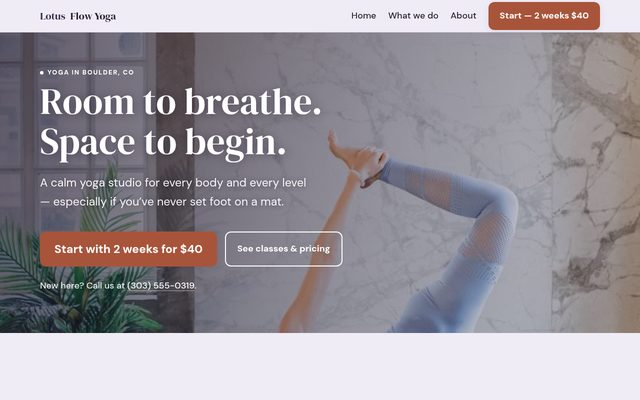
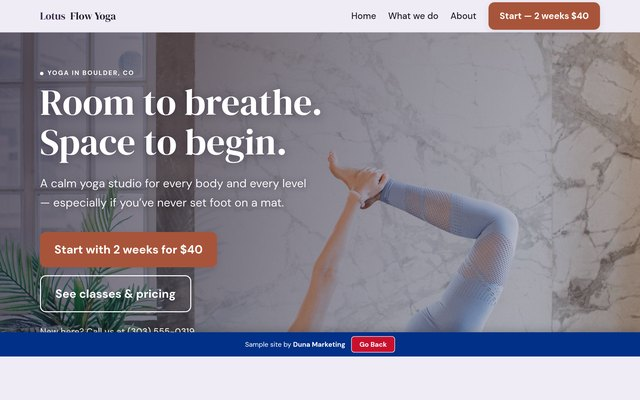
Six more samples on the homepage: taqueria, yoga, HVAC, grooming, detailing, med spa
Each got the mechanical craft pass: sample-site bar added on every page
(19 pages), page-specific meta descriptions, .page-hero styled, and six
undersized photos re-fetched from source at 1800px so nothing pixelates
on a 2x screen. Thumbnails shot at 2x and downsampled. Homepage goes
from 12 to 18 samples.

Claude-Session: https://claude.ai/code/session_01D7xGmYAXgvAihBMPCkH7ye

diff --git a/index.html b/index.html
@@ -176,6 +176,24 @@ fbq('track', 'PageView');
         <a href="/portfolio/summit-ridge-ski-board/" target="_blank" rel="noopener">
           <img src="/portfolio/thumbs/summit-ridge-ski-board.jpg" alt="Summit Ridge Ski and Board website" width="640" height="400" loading="lazy">
           <b>Summit Ridge Ski &amp; Board</b><span>Ski &amp; snowboard shop</span></a>
+        <a href="/portfolio/el-comal-taquer-a/" target="_blank" rel="noopener">
+          <img src="/portfolio/thumbs/el-comal-taquer-a.jpg" alt="El Comal Taqueria website" width="640" height="400" loading="lazy">
+          <b>El Comal Taquer&iacute;a</b><span>Taqueria</span></a>
+        <a href="/portfolio/lotus-flow-yoga/" target="_blank" rel="noopener">
+          <img src="/portfolio/thumbs/lotus-flow-yoga.jpg" alt="Lotus Flow Yoga website" width="640" height="400" loading="lazy">
+          <b>Lotus Flow Yoga</b><span>Yoga studio</span></a>
+        <a href="/portfolio/blue-ridge-heating-air/" target="_blank" rel="noopener">
+          <img src="/portfolio/thumbs/blue-ridge-heating-air.jpg" alt="Blue Ridge Heating and Air website" width="640" height="400" loading="lazy">
+          <b>Blue Ridge Heating &amp; Air</b><span>HVAC</span></a>
+        <a href="/portfolio/waggin-tails-grooming/" target="_blank" rel="noopener">
+          <img src="/portfolio/thumbs/waggin-tails-grooming.jpg" alt="Waggin Tails Grooming website" width="640" height="400" loading="lazy">
+          <b>Waggin&rsquo; Tails Grooming</b><span>Dog grooming</span></a>
+        <a href="/portfolio/mirror-finish-auto-detailing/" target="_blank" rel="noopener">
+          <img src="/portfolio/thumbs/mirror-finish-auto-detailing.jpg" alt="Mirror Finish Auto Detailing website" width="640" height="400" loading="lazy">
+          <b>Mirror Finish Detailing</b><span>Auto detailing</span></a>
+        <a href="/portfolio/lumen-aesthetics/" target="_blank" rel="noopener">
+          <img src="/portfolio/thumbs/lumen-aesthetics.jpg" alt="Lumen Aesthetics website" width="640" height="400" loading="lazy">
+          <b>Lumen Aesthetics</b><span>Med spa</span></a>
       </div>
     </section>
 

diff --git a/portfolio/waggin-tails-grooming/css/site.css b/portfolio/waggin-tails-grooming/css/site.css
@@ -125,3 +125,30 @@
 .cta-band p { margin-bottom: 0; }
 .cta-band .btn--primary { background: var(--on-brand); color: var(--brand); border: 1px solid var(--on-brand); }
 .cta-band .btn--ghost { color: var(--on-brand); border: 1px solid var(--on-brand); background: transparent; }
+
+
+/* ---------- Duna Marketing sample-site bar ---------- */
+:root { --duna-h: 48px; }
+.duna-bar {
+  position: fixed; left: 0; right: 0; bottom: 0; z-index: 70;
+  box-sizing: border-box; min-height: var(--duna-h);
+  display: flex; align-items: center; justify-content: center; gap: 0.75rem; flex-wrap: wrap;
+  padding: 0.5rem 1rem calc(0.5rem + env(safe-area-inset-bottom));
+  background: #003087; color: #FFFFFF;
+  font-family: var(--font-body); font-size: 0.85rem; line-height: 1.3; text-align: center;
+  box-shadow: 0 -4px 16px rgba(0, 0, 0, 0.18);
+}
+.duna-bar__btn {
+  background: #C8102E; color: #FFFFFF; border: 1px solid #FFFFFF;
+  border-radius: 6px; padding: 0.4rem 0.95rem; font-weight: 700; font-size: 0.85rem;
+  text-decoration: none; white-space: nowrap;
+}
+.duna-bar__btn:hover, .duna-bar__btn:focus-visible { background: #A50D25; }
+body { padding-bottom: calc(var(--duna-h) + env(safe-area-inset-bottom)); }
+@media (max-width: 720px) {
+  .cta-bar { bottom: calc(var(--duna-h) + env(safe-area-inset-bottom)); }
+  body.has-cta-bar { padding-bottom: calc(84px + var(--duna-h)); }
+}
+
+/* Subpage headline needs air under the sticky header. */
+.page-hero { padding-top: 25px; }

diff --git a/portfolio/blue-ridge-heating-air/css/site.css b/portfolio/blue-ridge-heating-air/css/site.css
@@ -125,3 +125,27 @@ h1, h2, h3 { font-weight: 700; letter-spacing: -0.02em; }
 .cta-band p { margin-bottom: 0; }
 .cta-band .btn--primary { background: var(--on-brand); color: var(--brand); border: 1px solid var(--on-brand); }
 .cta-band .btn--ghost { color: var(--on-brand); border: 1px solid var(--on-brand); background: transparent; }
+
+
+/* ---------- Duna Marketing sample-site bar ---------- */
+:root { --duna-h: 48px; }
+.duna-bar {
+  position: fixed; left: 0; right: 0; bottom: 0; z-index: 70;
+  box-sizing: border-box; min-height: var(--duna-h);
+  display: flex; align-items: center; justify-content: center; gap: 0.75rem; flex-wrap: wrap;
+  padding: 0.5rem 1rem calc(0.5rem + env(safe-area-inset-bottom));
+  background: #003087; color: #FFFFFF;
+  font-family: var(--font-body); font-size: 0.85rem; line-height: 1.3; text-align: center;
+  box-shadow: 0 -4px 16px rgba(0, 0, 0, 0.18);
+}
+.duna-bar__btn {
+  background: #C8102E; color: #FFFFFF; border: 1px solid #FFFFFF;
+  border-radius: 6px; padding: 0.4rem 0.95rem; font-weight: 700; font-size: 0.85rem;
+  text-decoration: none; white-space: nowrap;
+}
+.duna-bar__btn:hover, .duna-bar__btn:focus-visible { background: #A50D25; }
+body { padding-bottom: calc(var(--duna-h) + env(safe-area-inset-bottom)); }
+@media (max-width: 720px) {
+  .cta-bar { bottom: calc(var(--duna-h) + env(safe-area-inset-bottom)); }
+  body.has-cta-bar { padding-bottom: calc(84px + var(--duna-h)); }
+}

diff --git a/portfolio/el-comal-taquer-a/css/site.css b/portfolio/el-comal-taquer-a/css/site.css
@@ -182,3 +182,27 @@ h1, h2, h3 { font-weight: 800; letter-spacing: -0.02em; }
 .cta-band p { margin-bottom: 0; }
 .cta-band .btn--primary { background: var(--on-brand); color: var(--brand); border: 1px solid var(--on-brand); }
 .cta-band .btn--ghost { color: var(--on-brand); border: 1px solid var(--on-brand); background: transparent; }
+
+
+/* ---------- Duna Marketing sample-site bar ---------- */
+:root { --duna-h: 48px; }
+.duna-bar {
+  position: fixed; left: 0; right: 0; bottom: 0; z-index: 70;
+  box-sizing: border-box; min-height: var(--duna-h);
+  display: flex; align-items: center; justify-content: center; gap: 0.75rem; flex-wrap: wrap;
+  padding: 0.5rem 1rem calc(0.5rem + env(safe-area-inset-bottom));
+  background: #003087; color: #FFFFFF;
+  font-family: var(--font-body); font-size: 0.85rem; line-height: 1.3; text-align: center;
+  box-shadow: 0 -4px 16px rgba(0, 0, 0, 0.18);
+}
+.duna-bar__btn {
+  background: #C8102E; color: #FFFFFF; border: 1px solid #FFFFFF;
+  border-radius: 6px; padding: 0.4rem 0.95rem; font-weight: 700; font-size: 0.85rem;
+  text-decoration: none; white-space: nowrap;
+}
+.duna-bar__btn:hover, .duna-bar__btn:focus-visible { background: #A50D25; }
+body { padding-bottom: calc(var(--duna-h) + env(safe-area-inset-bottom)); }
+@media (max-width: 720px) {
+  .cta-bar { bottom: calc(var(--duna-h) + env(safe-area-inset-bottom)); }
+  body.has-cta-bar { padding-bottom: calc(84px + var(--duna-h)); }
+}

diff --git a/portfolio/lotus-flow-yoga/css/site.css b/portfolio/lotus-flow-yoga/css/site.css
@@ -113,3 +113,27 @@ h1, h2, h3 { font-weight: 400; letter-spacing: 0; }
 .cta-band p { margin-bottom: 0; }
 .cta-band .btn--primary { background: var(--on-brand); color: var(--brand); border: 1px solid var(--on-brand); }
 .cta-band .btn--ghost { color: var(--on-brand); border: 1px solid var(--on-brand); background: transparent; }
+
+
+/* ---------- Duna Marketing sample-site bar ---------- */
+:root { --duna-h: 48px; }
+.duna-bar {
+  position: fixed; left: 0; right: 0; bottom: 0; z-index: 70;
+  box-sizing: border-box; min-height: var(--duna-h);
+  display: flex; align-items: center; justify-content: center; gap: 0.75rem; flex-wrap: wrap;
+  padding: 0.5rem 1rem calc(0.5rem + env(safe-area-inset-bottom));
+  background: #003087; color: #FFFFFF;
+  font-family: var(--font-body); font-size: 0.85rem; line-height: 1.3; text-align: center;
+  box-shadow: 0 -4px 16px rgba(0, 0, 0, 0.18);
+}
+.duna-bar__btn {
+  background: #C8102E; color: #FFFFFF; border: 1px solid #FFFFFF;
+  border-radius: 6px; padding: 0.4rem 0.95rem; font-weight: 700; font-size: 0.85rem;
+  text-decoration: none; white-space: nowrap;
+}
+.duna-bar__btn:hover, .duna-bar__btn:focus-visible { background: #A50D25; }
+body { padding-bottom: calc(var(--duna-h) + env(safe-area-inset-bottom)); }
+@media (max-width: 720px) {
+  .cta-bar { bottom: calc(var(--duna-h) + env(safe-area-inset-bottom)); }
+  body.has-cta-bar { padding-bottom: calc(84px + var(--duna-h)); }
+}

diff --git a/portfolio/mirror-finish-auto-detailing/css/site.css b/portfolio/mirror-finish-auto-detailing/css/site.css
@@ -152,3 +152,27 @@ h1, h2, h3 { letter-spacing: -0.02em; }
 .cta-band p { margin-bottom: 0; }
 .cta-band .btn--primary { background: var(--on-brand); color: var(--brand); border: 1px solid var(--on-brand); }
 .cta-band .btn--ghost { color: var(--on-brand); border: 1px solid var(--on-brand); background: transparent; }
+
+
+/* ---------- Duna Marketing sample-site bar ---------- */
+:root { --duna-h: 48px; }
+.duna-bar {
+  position: fixed; left: 0; right: 0; bottom: 0; z-index: 70;
+  box-sizing: border-box; min-height: var(--duna-h);
+  display: flex; align-items: center; justify-content: center; gap: 0.75rem; flex-wrap: wrap;
+  padding: 0.5rem 1rem calc(0.5rem + env(safe-area-inset-bottom));
+  background: #003087; color: #FFFFFF;
+  font-family: var(--font-body); font-size: 0.85rem; line-height: 1.3; text-align: center;
+  box-shadow: 0 -4px 16px rgba(0, 0, 0, 0.18);
+}
+.duna-bar__btn {
+  background: #C8102E; color: #FFFFFF; border: 1px solid #FFFFFF;
+  border-radius: 6px; padding: 0.4rem 0.95rem; font-weight: 700; font-size: 0.85rem;
+  text-decoration: none; white-space: nowrap;
+}
+.duna-bar__btn:hover, .duna-bar__btn:focus-visible { background: #A50D25; }
+body { padding-bottom: calc(var(--duna-h) + env(safe-area-inset-bottom)); }
+@media (max-width: 720px) {
+  .cta-bar { bottom: calc(var(--duna-h) + env(safe-area-inset-bottom)); }
+  body.has-cta-bar { padding-bottom: calc(84px + var(--duna-h)); }
+}

diff --git a/portfolio/el-comal-taquer-a/services.html b/portfolio/el-comal-taquer-a/services.html
@@ -14,7 +14,7 @@
 <link rel="stylesheet" href="css/base.css">
 <link rel="stylesheet" href="css/site.css">
 <title>What we do &mdash; El Comal Taquería</title>
-<meta name="description" content="A San Antonio taco shop for people who want the real thing — al pastor off the trompo, burritos, quesadillas, family platters, and a green salsa worth driving for. Tue–Sun 11am–9pm. Call (210) 555-0165.">
+<meta name="description" content="What we do and what it costs at What we do &mdash; El Comal Taquería. A San Antonio taco shop for people who want the real thing — al pastor off the trompo, burritos, quesadillas, ">
 <meta property="og:title" content="El Comal Taquería — Real tacos off the trompo, on Guadalupe">
 <meta property="og:description" content="Al pastor, burritos, and a green salsa people ask to buy by the jar. San Antonio, TX. Call (210) 555-0165.">
 <meta property="og:image" content="https://dunamarketing.com/portfolio/el-comal-taquer-a/assets/web/photo-01-taco-truck.jpg">
@@ -65,5 +65,9 @@
 </footer>
 <div class="cta-bar"><a class="btn" href="tel:+12105550165">Call (210) 555-0165</a></div>
 <script src="js/main.js" defer></script>
+<div class="duna-bar">
+  <span class="duna-bar__txt">Sample site by <b>Duna Marketing</b></span>
+  <a class="duna-bar__btn" href="https://dunamarketing.com/">Go Back</a>
+</div>
 </body>
 </html>

diff --git a/portfolio/el-comal-taquer-a/contact.html b/portfolio/el-comal-taquer-a/contact.html
@@ -14,7 +14,7 @@
 <link rel="stylesheet" href="css/base.css">
 <link rel="stylesheet" href="css/site.css">
 <title>Visit &mdash; El Comal Taquería</title>
-<meta name="description" content="A San Antonio taco shop for people who want the real thing — al pastor off the trompo, burritos, quesadillas, family platters, and a green salsa worth driving for. Tue–Sun 11am–9pm. Call (210) 555-0165.">
+<meta name="description" content="Visit or call Visit &mdash; El Comal Taquería. A San Antonio taco shop for people who want the real thing — al pastor off the trompo, burritos, quesadillas, family platters, and a ">
 <meta property="og:title" content="El Comal Taquería — Real tacos off the trompo, on Guadalupe">
 <meta property="og:description" content="Al pastor, burritos, and a green salsa people ask to buy by the jar. San Antonio, TX. Call (210) 555-0165.">
 <meta property="og:image" content="https://dunamarketing.com/portfolio/el-comal-taquer-a/assets/web/photo-01-taco-truck.jpg">
@@ -69,5 +69,9 @@
 </footer>
 <div class="cta-bar"><a class="btn" href="tel:+12105550165">Call (210) 555-0165</a></div>
 <script src="js/main.js" defer></script>
+<div class="duna-bar">
+  <span class="duna-bar__txt">Sample site by <b>Duna Marketing</b></span>
+  <a class="duna-bar__btn" href="https://dunamarketing.com/">Go Back</a>
+</div>
 </body>
 </html>

diff --git a/portfolio/lotus-flow-yoga/about.html b/portfolio/lotus-flow-yoga/about.html
@@ -100,5 +100,9 @@
 </footer>
 <div class="cta-bar"><a class="btn" href="mailto:breathe@lotusflowboulder.com?subject=Start%20with%202%20weeks%20for%20%2440">Start with 2 weeks for $40</a></div>
 <script src="js/main.js" defer></script>
+<div class="duna-bar">
+  <span class="duna-bar__txt">Sample site by <b>Duna Marketing</b></span>
+  <a class="duna-bar__btn" href="https://dunamarketing.com/">Go Back</a>
+</div>
 </body>
 </html>

diff --git a/portfolio/lotus-flow-yoga/index.html b/portfolio/lotus-flow-yoga/index.html
@@ -111,5 +111,9 @@
 </footer>
 <div class="cta-bar"><a class="btn" href="mailto:breathe@lotusflowboulder.com?subject=Start%20with%202%20weeks%20for%20%2440">Start with 2 weeks for $40</a></div>
 <script src="js/main.js" defer></script>
+<div class="duna-bar">
+  <span class="duna-bar__txt">Sample site by <b>Duna Marketing</b></span>
+  <a class="duna-bar__btn" href="https://dunamarketing.com/">Go Back</a>
+</div>
 </body>
 </html>

diff --git a/portfolio/lotus-flow-yoga/services.html b/portfolio/lotus-flow-yoga/services.html
@@ -134,5 +134,9 @@
 </footer>
 <div class="cta-bar"><a class="btn" href="mailto:breathe@lotusflowboulder.com?subject=Start%20with%202%20weeks%20for%20%2440">Start with 2 weeks for $40</a></div>
 <script src="js/main.js" defer></script>
+<div class="duna-bar">
+  <span class="duna-bar__txt">Sample site by <b>Duna Marketing</b></span>
+  <a class="duna-bar__btn" href="https://dunamarketing.com/">Go Back</a>
+</div>
 </body>
 </html>

diff --git a/portfolio/mirror-finish-auto-detailing/index.html b/portfolio/mirror-finish-auto-detailing/index.html
@@ -127,5 +127,9 @@
 </footer>
 <div class="cta-bar"><a class="btn" href="tel:+18135550198">Call to book &mdash; (813) 555-0198</a></div>
 <script src="js/main.js" defer></script>
+<div class="duna-bar">
+  <span class="duna-bar__txt">Sample site by <b>Duna Marketing</b></span>
+  <a class="duna-bar__btn" href="https://dunamarketing.com/">Go Back</a>
+</div>
 </body>
 </html>
